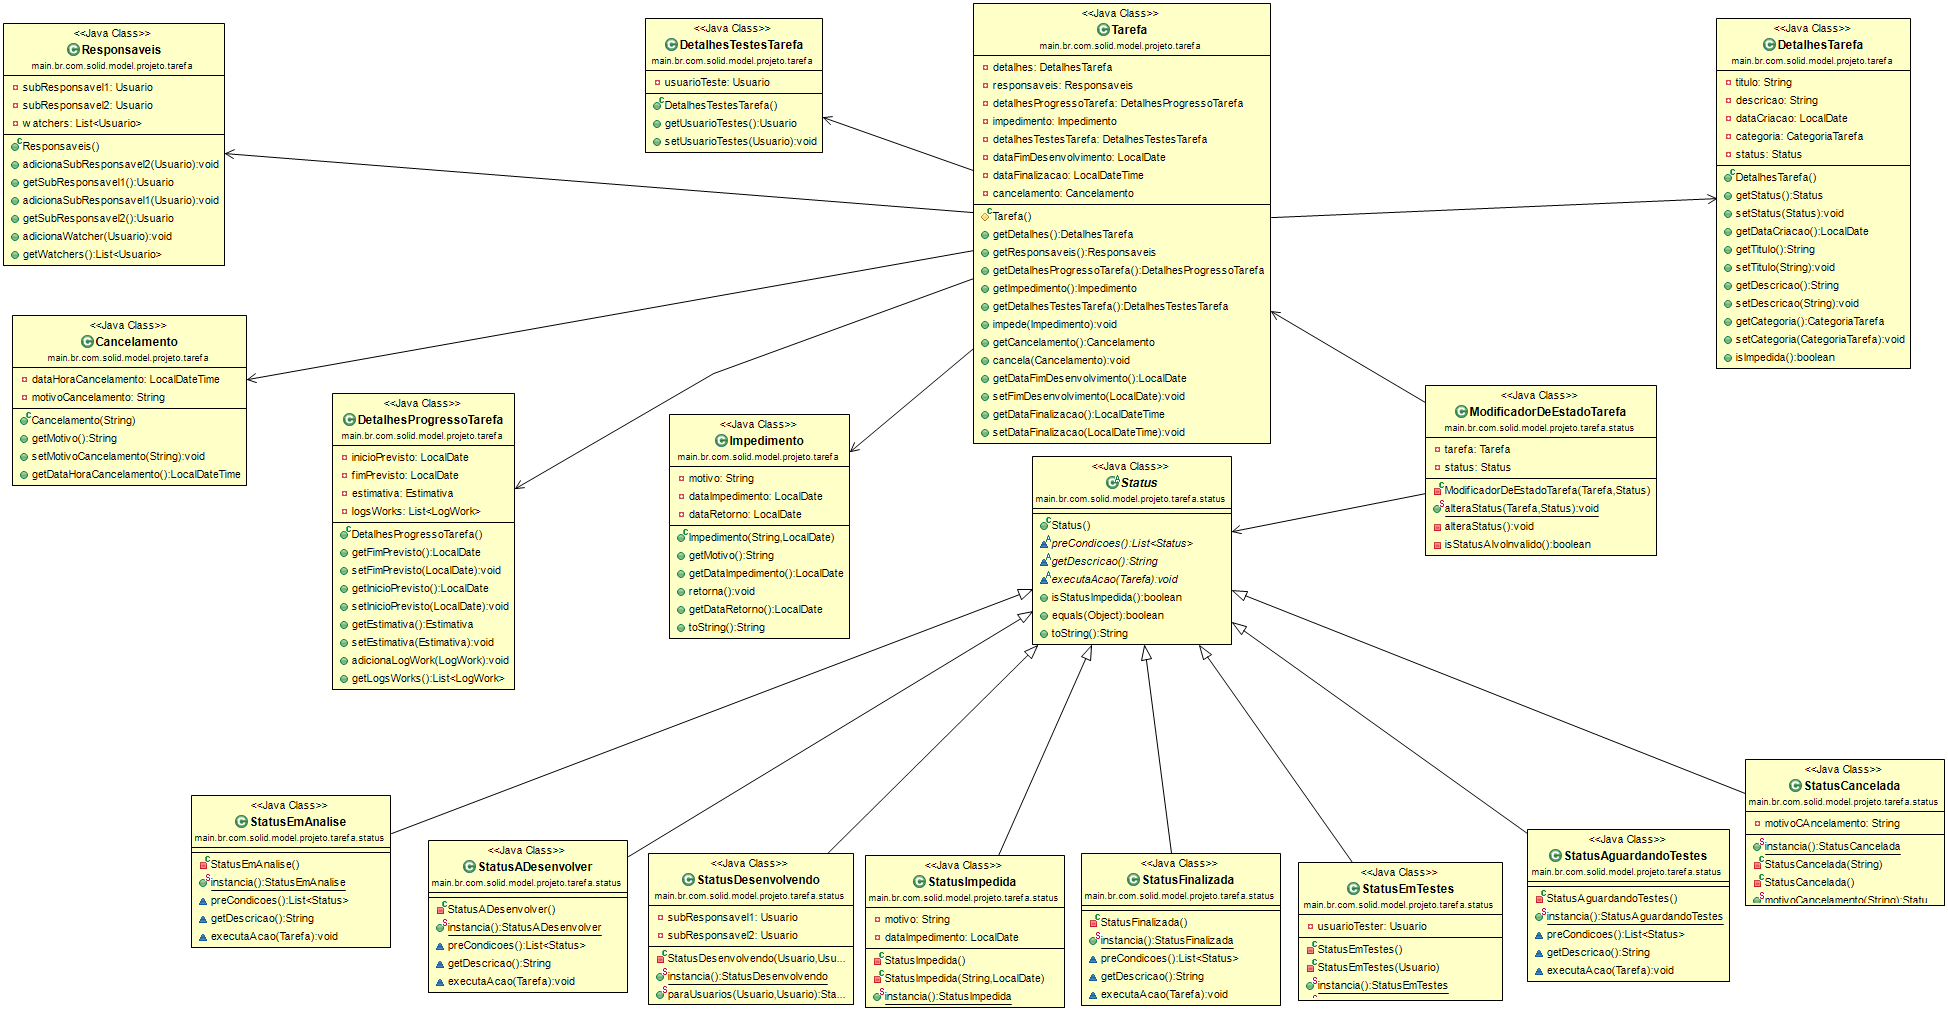
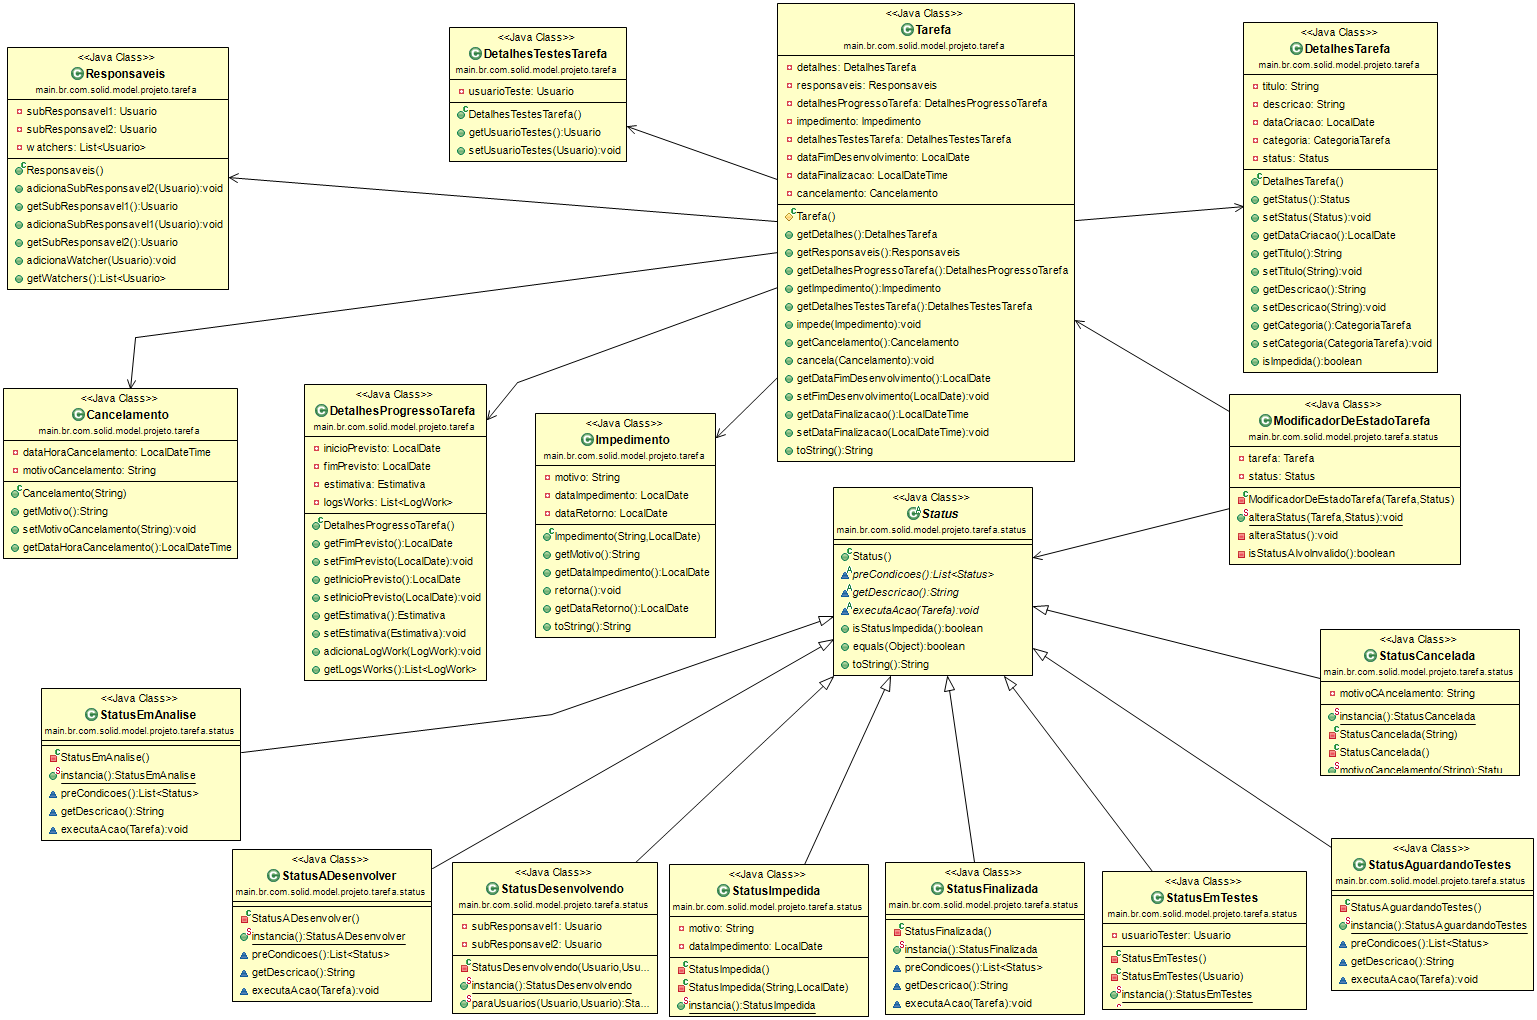
[FLUXO-DE-TAREFAS] Melhorias na visualização do diagrama de classes

diff --git a/src/main/br/com/solid/model/projeto/tarefa/Tarefa.java b/src/main/br/com/solid/model/projeto/tarefa/Tarefa.java
@@ -68,5 +68,10 @@ public class Tarefa {
 	public void setDataFinalizacao(LocalDateTime dataFinalizacao) {
 		this.dataFinalizacao = dataFinalizacao;
 	}
+	
+	@Override
+	public String toString() {
+		return getDetalhes().getTitulo();
+	}
 
 }
